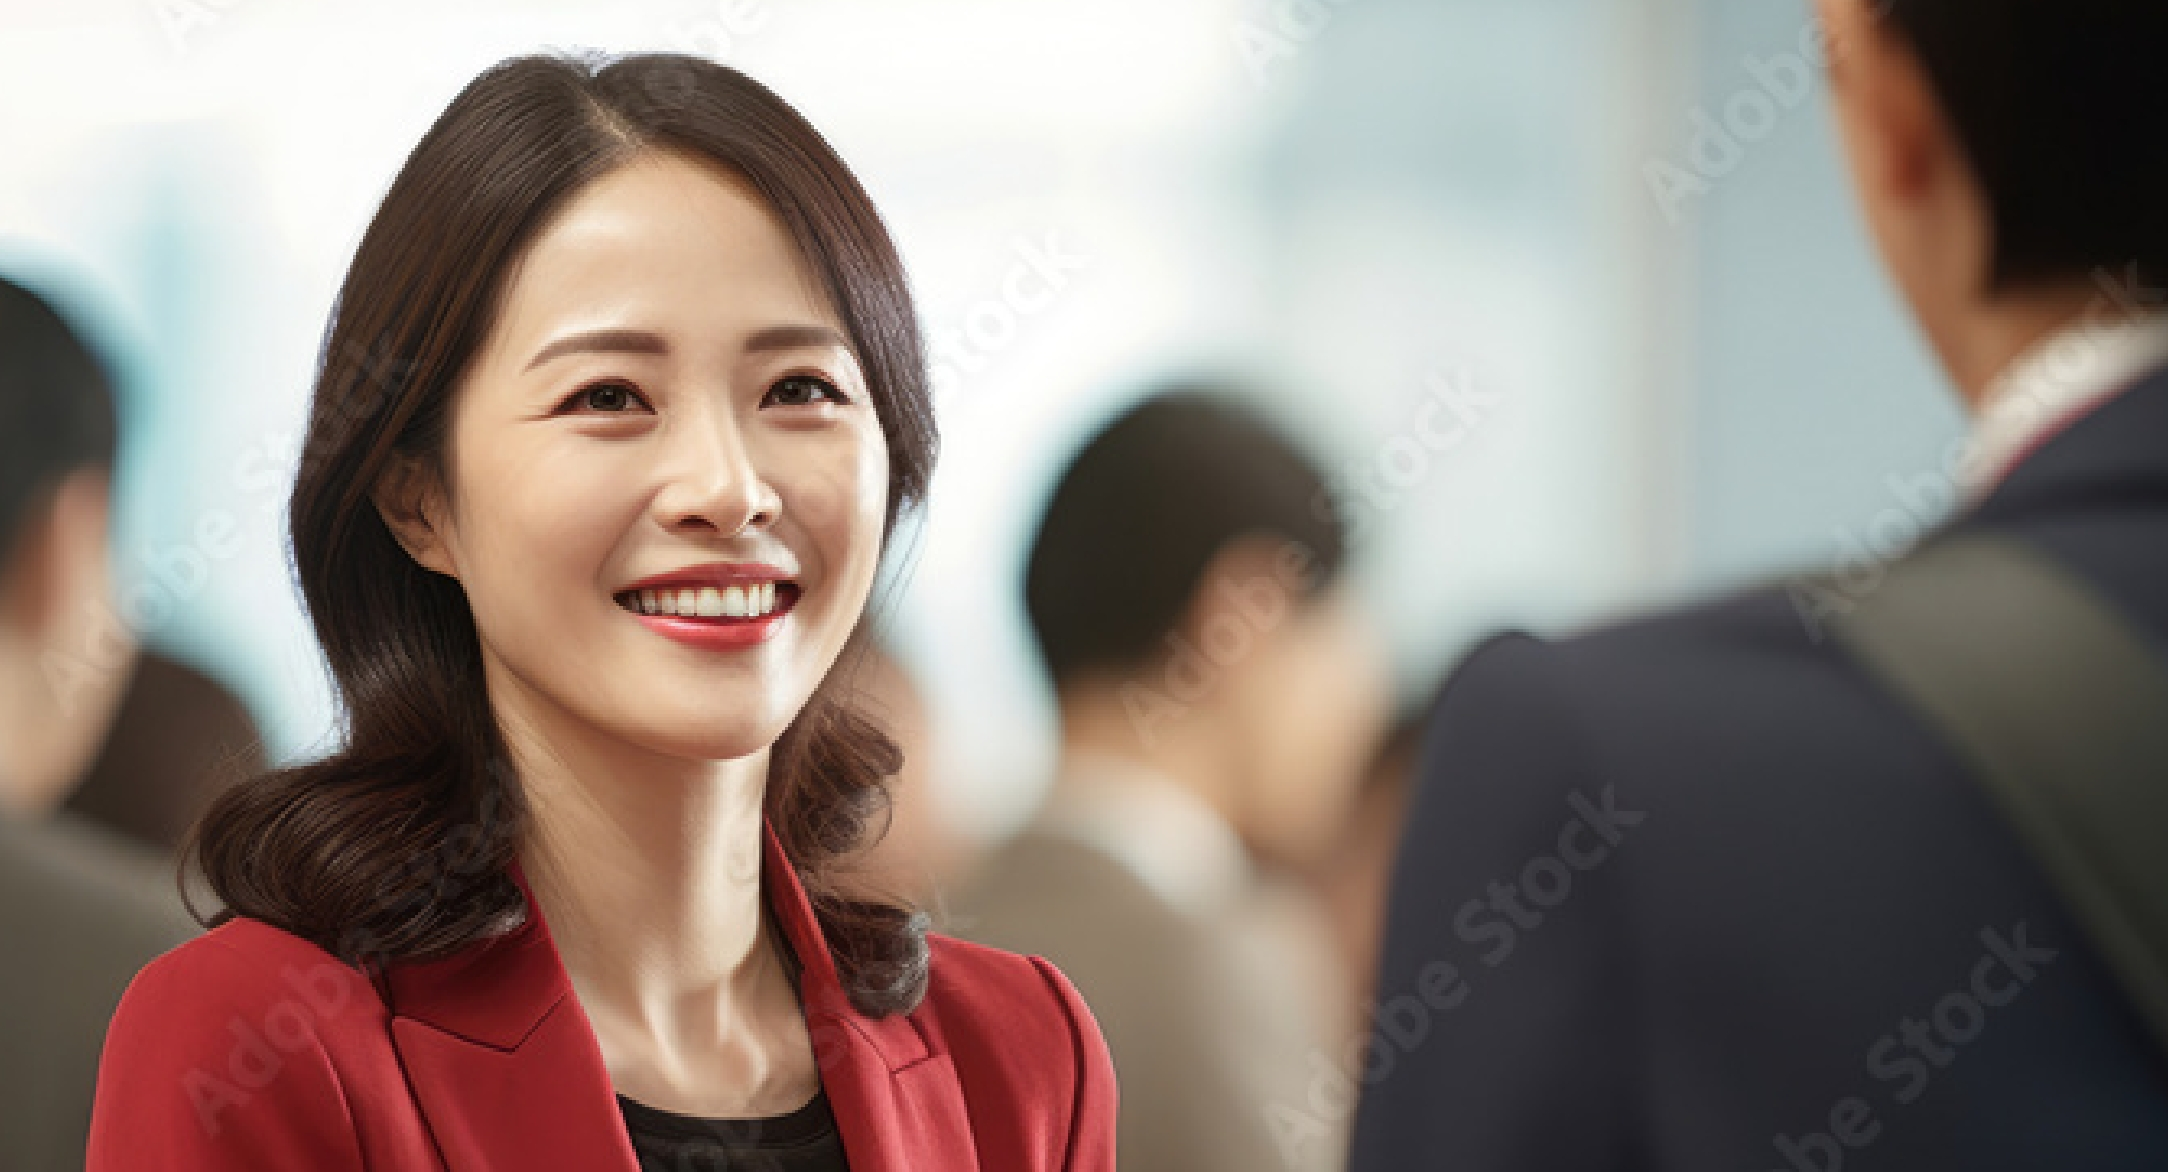
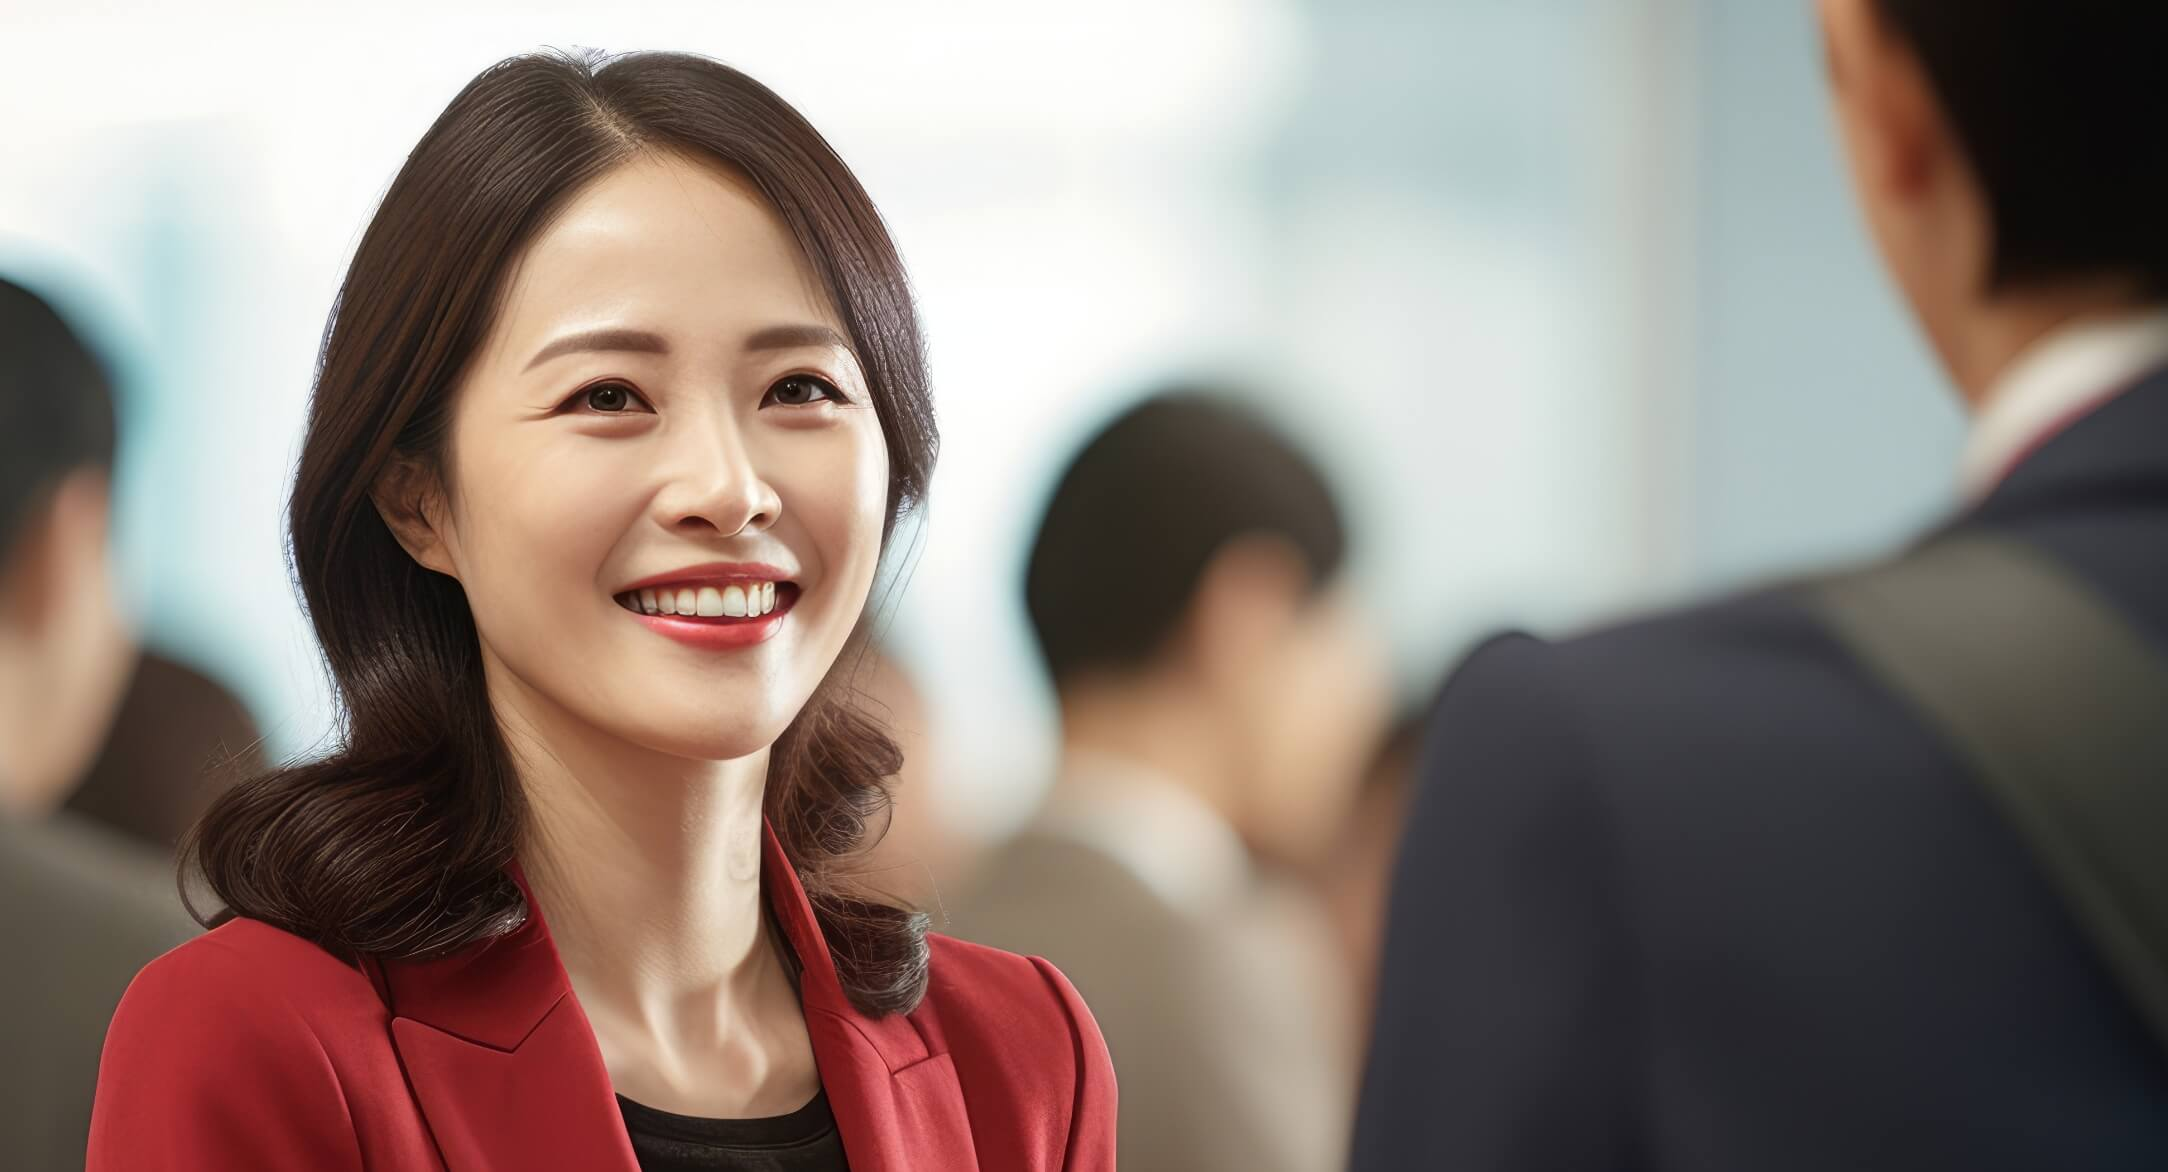
TOPページ画像を購入済み素材に差し替え

diff --git a/src/assets/html/notice.html b/src/assets/html/notice.html
@@ -8,7 +8,7 @@
     <meta name="viewport" content="width=device-width, initial-scale=1">
     <script type="text/javascript" src="https://ajax.googleapis.com/ajax/libs/jquery/2.0.0/jquery.min.js"></script>
     <!-- css 後でjsに記載してhtml内は削除する -->
-    <!-- <link rel="stylesheet" href="../css/common/reset.css">
+    <link rel="stylesheet" href="../css/common/reset.css">
     <link rel="stylesheet" href="../css/common/navbar.css">
     <link rel="stylesheet" href="../css/common/footer.css">
     <link rel="stylesheet" href="../css/common/typography.css">
@@ -16,7 +16,6 @@
     <link rel="stylesheet" href="../css/common/animation.css">
     <link rel="stylesheet" href="../css/common/under.css">
     <link rel="stylesheet" href="../css/under/notice.css">
-    <script type="text/javascript" src="../../notice.js" defer></script> -->
     <!-- css end -->
     <!-- ogp -->
     <meta property="og:type" content="website">
@@ -77,78 +76,70 @@
       <section class="news">
         <div class="wrapper news_inner">
           <div class="news_content">
-            <div class="news_items">
-              <a href="#">2023/11/14　ダミーテキストダミーテキストダミーテキストダミーテキストダミーテキストダミーテキストダミーテキスト</a>
-            </div>
-            <div class="news_items">
-              <a href="#">2023/11/14　ダミーテキストダミーテキストダミーテキストダミーテキストダミーテキストダミーテキストダミーテキスト</a>
-            </div>
-            <div class="news_items">
-              <a href="#">2023/11/14　ダミーテキストダミーテキストダミーテキストダミーテキストダミーテキストダミーテキストダミーテキスト</a>
-            </div>
-            <div class="news_items">
-              <a href="#">2023/11/14　ダミーテキストダミーテキストダミーテキストダミーテキストダミーテキストダミーテキストダミーテキスト</a>
-            </div>
-            <div class="news_items">
-              <a href="#">2023/11/14　ダミーテキストダミーテキストダミーテキストダミーテキストダミーテキストダミーテキストダミーテキスト</a>
-            </div>
-            <div class="news_items">
-              <a href="#">2023/11/14　ダミーテキストダミーテキストダミーテキストダミーテキストダミーテキストダミーテキストダミーテキスト</a>
-            </div>
-            <div class="news_items">
-              <a href="#">2023/11/14　ダミーテキストダミーテキストダミーテキストダミーテキストダミーテキストダミーテキストダミーテキスト</a>
-            </div>
-            <div class="news_items">
-              <a href="#">2023/11/14　ダミーテキストダミーテキストダミーテキストダミーテキストダミーテキストダミーテキストダミーテキスト</a>
-            </div>
-            <div class="news_items">
-              <a href="#">2023/11/14　ダミーテキストダミーテキストダミーテキストダミーテキストダミーテキストダミーテキストダミーテキスト</a>
-            </div>
-            <div class="news_items">
-              <a href="#">2023/11/14　ダミーテキストダミーテキストダミーテキストダミーテキストダミーテキストダミーテキストダミーテキスト</a>
-            </div>
-            <div class="news_items">
-              <a href="#">2023/11/14　ダミーテキストダミーテキストダミーテキストダミーテキストダミーテキストダミーテキストダミーテキスト</a>
-            </div>
-            <div class="news_items">
-              <a href="#">2023/11/14　ダミーテキストダミーテキストダミーテキストダミーテキストダミーテキストダミーテキストダミーテキスト</a>
-            </div>
-            <div class="news_items">
-              <a href="#">2023/11/14　ダミーテキストダミーテキストダミーテキストダミーテキストダミーテキストダミーテキストダミーテキスト</a>
-            </div>
-            <div class="news_items">
-              <a href="#">2023/11/14　ダミーテキストダミーテキストダミーテキストダミーテキストダミーテキストダミーテキストダミーテキスト</a>
-            </div>
-            <div class="news_items">
-              <a href="#">2023/11/14　ダミーテキストダミーテキストダミーテキストダミーテキストダミーテキストダミーテキストダミーテキスト</a>
-            </div>
-            <div class="news_items">
-              <a href="#">2023/11/14　ダミーテキストダミーテキストダミーテキストダミーテキストダミーテキストダミーテキストダミーテキスト</a>
-            </div>
-            <div class="news_items">
-              <a href="#">2023/11/14　ダミーテキストダミーテキストダミーテキストダミーテキストダミーテキストダミーテキストダミーテキスト</a>
-            </div>
-            <div class="news_items">
-              <a href="#">2023/11/14　ダミーテキストダミーテキストダミーテキストダミーテキストダミーテキストダミーテキストダミーテキスト</a>
-            </div>
-            <div class="news_items">
-              <a href="#">2023/11/14　ダミーテキストダミーテキストダミーテキストダミーテキストダミーテキストダミーテキストダミーテキスト</a>
-            </div>
-            <div class="news_items">
-              <a href="#">2023/11/14　ダミーテキストダミーテキストダミーテキストダミーテキストダミーテキストダミーテキストダミーテキスト</a>
-            </div>
-            <div class="news_items">
-              <a href="#">2023/11/14　ダミーテキストダミーテキストダミーテキストダミーテキストダミーテキストダミーテキストダミーテキスト</a>
-            </div>
-            <div class="news_items">
-              <a href="#">2023/11/14　ダミーテキストダミーテキストダミーテキストダミーテキストダミーテキストダミーテキストダミーテキスト</a>
-            </div>
-            <div class="news_items">
-              <a href="#">2023/11/14　ダミーテキストダミーテキストダミーテキストダミーテキストダミーテキストダミーテキストダミーテキスト</a>
-            </div>
-            <div class="news_items">
-              <a href="#">2023/11/14　ダミーテキストダミーテキストダミーテキストダミーテキストダミーテキストダミーテキストダミーテキスト</a>
-            </div>
+            <a class="news_items" href="#">
+              <p class="news_date">2023/11/14</p>
+              <p class="news_text">ダミーテキストダミーテキストダミーテキストダミーテキストダミーテキストダミーテキストダミーテキスト</p>
+            </a>
+            <a class="news_items" href="#">
+              <p class="news_date">2023/11/14</p>
+              <p class="news_text">ダミーテキストダミーテキストダミーテキストダミーテキストダミーテキストダミーテキストダミーテキスト</p>
+            </a>
+            <a class="news_items" href="#">
+              <p class="news_date">2023/11/14</p>
+              <p class="news_text">ダミーテキストダミーテキストダミーテキストダミーテキストダミーテキストダミーテキストダミーテキスト</p>
+            </a>
+            <a class="news_items" href="#">
+              <p class="news_date">2023/11/14</p>
+              <p class="news_text">ダミーテキストダミーテキストダミーテキストダミーテキストダミーテキストダミーテキストダミーテキスト</p>
+            </a>
+            <a class="news_items" href="#">
+              <p class="news_date">2023/11/14</p>
+              <p class="news_text">ダミーテキストダミーテキストダミーテキストダミーテキストダミーテキストダミーテキストダミーテキスト</p>
+            </a>
+            <a class="news_items" href="#">
+              <p class="news_date">2023/11/14</p>
+              <p class="news_text">ダミーテキストダミーテキストダミーテキストダミーテキストダミーテキストダミーテキストダミーテキスト</p>
+            </a>
+            <a class="news_items" href="#">
+              <p class="news_date">2023/11/14</p>
+              <p class="news_text">ダミーテキストダミーテキストダミーテキストダミーテキストダミーテキストダミーテキストダミーテキスト</p>
+            </a>
+            <a class="news_items" href="#">
+              <p class="news_date">2023/11/14</p>
+              <p class="news_text">ダミーテキストダミーテキストダミーテキストダミーテキストダミーテキストダミーテキストダミーテキスト</p>
+            </a>
+            <a class="news_items" href="#">
+              <p class="news_date">2023/11/14</p>
+              <p class="news_text">ダミーテキストダミーテキストダミーテキストダミーテキストダミーテキストダミーテキストダミーテキスト</p>
+            </a>
+            <a class="news_items" href="#">
+              <p class="news_date">2023/11/14</p>
+              <p class="news_text">ダミーテキストダミーテキストダミーテキストダミーテキストダミーテキストダミーテキストダミーテキスト</p>
+            </a>
+            <a class="news_items" href="#">
+              <p class="news_date">2023/11/14</p>
+              <p class="news_text">ダミーテキストダミーテキストダミーテキストダミーテキストダミーテキストダミーテキストダミーテキスト</p>
+            </a>
+            <a class="news_items" href="#">
+              <p class="news_date">2023/11/14</p>
+              <p class="news_text">ダミーテキストダミーテキストダミーテキストダミーテキストダミーテキストダミーテキストダミーテキスト</p>
+            </a>
+            <a class="news_items" href="#">
+              <p class="news_date">2023/11/14</p>
+              <p class="news_text">ダミーテキストダミーテキストダミーテキストダミーテキストダミーテキストダミーテキストダミーテキスト</p>
+            </a>
+            <a class="news_items" href="#">
+              <p class="news_date">2023/11/14</p>
+              <p class="news_text">ダミーテキストダミーテキストダミーテキストダミーテキストダミーテキストダミーテキストダミーテキスト</p>
+            </a>
+            <a class="news_items" href="#">
+              <p class="news_date">2023/11/14</p>
+              <p class="news_text">ダミーテキストダミーテキストダミーテキストダミーテキストダミーテキストダミーテキストダミーテキスト</p>
+            </a>
+            <a class="news_items" href="#">
+              <p class="news_date">2023/11/14</p>
+              <p class="news_text">ダミーテキストダミーテキストダミーテキストダミーテキストダミーテキストダミーテキストダミーテキスト</p>
+            </a>
           </div>
           <button class="section_btn fs-20 bold">
             <a class="fs-20 bold">
@@ -219,5 +210,6 @@
     <footer id="footer">
       <small><p class="copyright fs-16 bold white">&copy;2023オールウェイズ日中通訳サービス All Rights Reserved.</p></small>
   </footer>
+  <script type="text/javascript" src="../../notice.js" defer></script>
   </body>
 </html> 

diff --git a/src/assets/html/blog.html b/src/assets/html/blog.html
@@ -8,7 +8,7 @@
     <meta name="viewport" content="width=device-width, initial-scale=1">
     <script type="text/javascript" src="https://ajax.googleapis.com/ajax/libs/jquery/2.0.0/jquery.min.js"></script>
     <!-- css 後でjsに記載してhtml内は削除する -->
-    <!-- <link rel="stylesheet" href="../css/common/reset.css">
+    <link rel="stylesheet" href="../css/common/reset.css">
     <link rel="stylesheet" href="../css/common/navbar.css">
     <link rel="stylesheet" href="../css/common/footer.css">
     <link rel="stylesheet" href="../css/common/typography.css">
@@ -16,7 +16,6 @@
     <link rel="stylesheet" href="../css/common/animation.css">
     <link rel="stylesheet" href="../css/common/under.css">
     <link rel="stylesheet" href="../css/under/blog.css">
-    <script type="text/javascript" src="../../blog.js" defer></script> -->
     <!-- css end -->
     <!-- ogp -->
     <meta property="og:url" content="https://always-interpreter.com">
@@ -279,5 +278,6 @@
     <footer id="footer">
       <small><p class="copyright fs-16 bold white">&copy;2023オールウェイズ日中通訳サービス All Rights Reserved.</p></small>
   </footer>
+  <script type="text/javascript" src="../../blog.js" defer></script>
   </body>
 </html> 

diff --git a/src/assets/css/under/notice.css b/src/assets/css/under/notice.css
@@ -19,17 +19,29 @@
     flex-flow: column;
     gap: 30px;
     margin-bottom: 60px;
+    font-weight: bold;
 }
 .news_items {
-    display: block;
+    color: #002D80;
+    display: flex;
+    gap: 30px;
     margin: auto;
-    width: 700px;
+    width: 70%;
     white-space: nowrap;
     overflow: hidden;
     text-overflow: ellipsis;
     border-bottom: #002D80 solid 1px;
 }
+.news_text {
+    display: block;
+    margin: auto;
+    width: 100%;
+    white-space: nowrap;
+    overflow: hidden;
+    text-overflow: ellipsis;
+}
 .news_items:hover {
+    color: #2BB9FC;
     transition: 0.3s;
     border-bottom: #2BB9FC solid 1px;
 }
@@ -55,4 +67,28 @@
 }
 .section_btn.is-btn-hidden{
     display:none;
+}
+
+@media (max-width: 767px) {
+    .under_kv{
+    background-image: url(../../images/underPage/sp/news_kv_sp.jpg);
+    }
+    .news{
+        padding: 80px 0;
+    }
+    .news_inner{
+        padding: 30px 0 40px;
+    }
+    .news_content{
+        gap: 20px;
+        margin-bottom: 40px;
+    }
+    .news_items {
+        display: block;
+        gap: 30px;
+        margin: auto;
+        width: 85%;
+        border-bottom: #002D80 solid 1px;
+        line-height: 1.6rem;
+    }
 }

diff --git a/dist/index.0341651850cc406ebe83.css b/dist/index.0341651850cc406ebe83.css
@@ -240,7 +240,7 @@
     transform: translateY(-35%);
     width: 65vw;
     height: 661.48px;
-    background-image: url(assets/img/index_kv2.png);
+    background-image: url(assets/img/index_kv2.jpg);
     background-size: cover;
     background-repeat: no-repeat;
     margin-bottom: 0;
@@ -358,7 +358,7 @@
   transform: translateY(-35%);
   width: 65vw;
   height: 661.48px;
-  background-image: url(assets/img/index_kv2.png);
+  background-image: url(assets/img/index_kv2.jpg);
   background-size: cover;
   background-repeat: no-repeat;
   margin-bottom: 0;
@@ -405,7 +405,7 @@
     transform: translateY(-35%);
     width: 85vw;
     height: 661.48px;
-    background-image: url(assets/img/index_kv2.png);
+    background-image: url(assets/img/index_kv2.jpg);
     background-size: cover;
     background-repeat: no-repeat;
     margin-bottom: 0;

diff --git a/src/notice.js b/src/notice.js
@@ -1,11 +1,11 @@
-import "./assets/css/common/reset.css";
-import "./assets/css/common/navbar.css";
-import "./assets/css/common/footer.css";
-import "./assets/css/common/typography.css";
-import "./assets/css/common/utility.css";
-import "./assets/css/common/animation.css";
-import "./assets/css/common/under.css";
-import "./assets/css/under/notice.css";
+// import "./assets/css/common/reset.css";
+// import "./assets/css/common/navbar.css";
+// import "./assets/css/common/footer.css";
+// import "./assets/css/common/typography.css";
+// import "./assets/css/common/utility.css";
+// import "./assets/css/common/animation.css";
+// import "./assets/css/common/under.css";
+// import "./assets/css/under/notice.css";
 
 var moreNum = 10;
 $('.news_items:nth-child(n + ' + (moreNum + 1) + ')').addClass('is-hidden');

diff --git a/src/assets/css/index/about.css b/src/assets/css/index/about.css
@@ -13,7 +13,7 @@
   transform: translateY(-35%);
   width: 65vw;
   height: 661.48px;
-  background-image: url(../../images/hero/index_kv2.png);
+  background-image: url(../../images/hero/index_kv2.jpg);
   background-size: cover;
   background-repeat: no-repeat;
   margin-bottom: 0;
@@ -60,7 +60,7 @@
     transform: translateY(-35%);
     width: 85vw;
     height: 661.48px;
-    background-image: url(../../images/hero/index_kv2.png);
+    background-image: url(../../images/hero/index_kv2.jpg);
     background-size: cover;
     background-repeat: no-repeat;
     margin-bottom: 0;

diff --git a/src/assets/css/index/main.css b/src/assets/css/index/main.css
@@ -13,7 +13,7 @@
     transform: translateY(-35%);
     width: 65vw;
     height: 661.48px;
-    background-image: url(../../images/hero/index_kv2.png);
+    background-image: url(../../images/hero/index_kv2.jpg);
     background-size: cover;
     background-repeat: no-repeat;
     margin-bottom: 0;

diff --git a/src/assets/css/common/under.css b/src/assets/css/common/under.css
@@ -245,7 +245,7 @@ body {
 
     /* contact */
     .contact{
-        margin-top: 60px;
+        margin-top: 80px;
         padding: 40px 20px;
         text-align: center;
         background-color: #E6F5FC;
